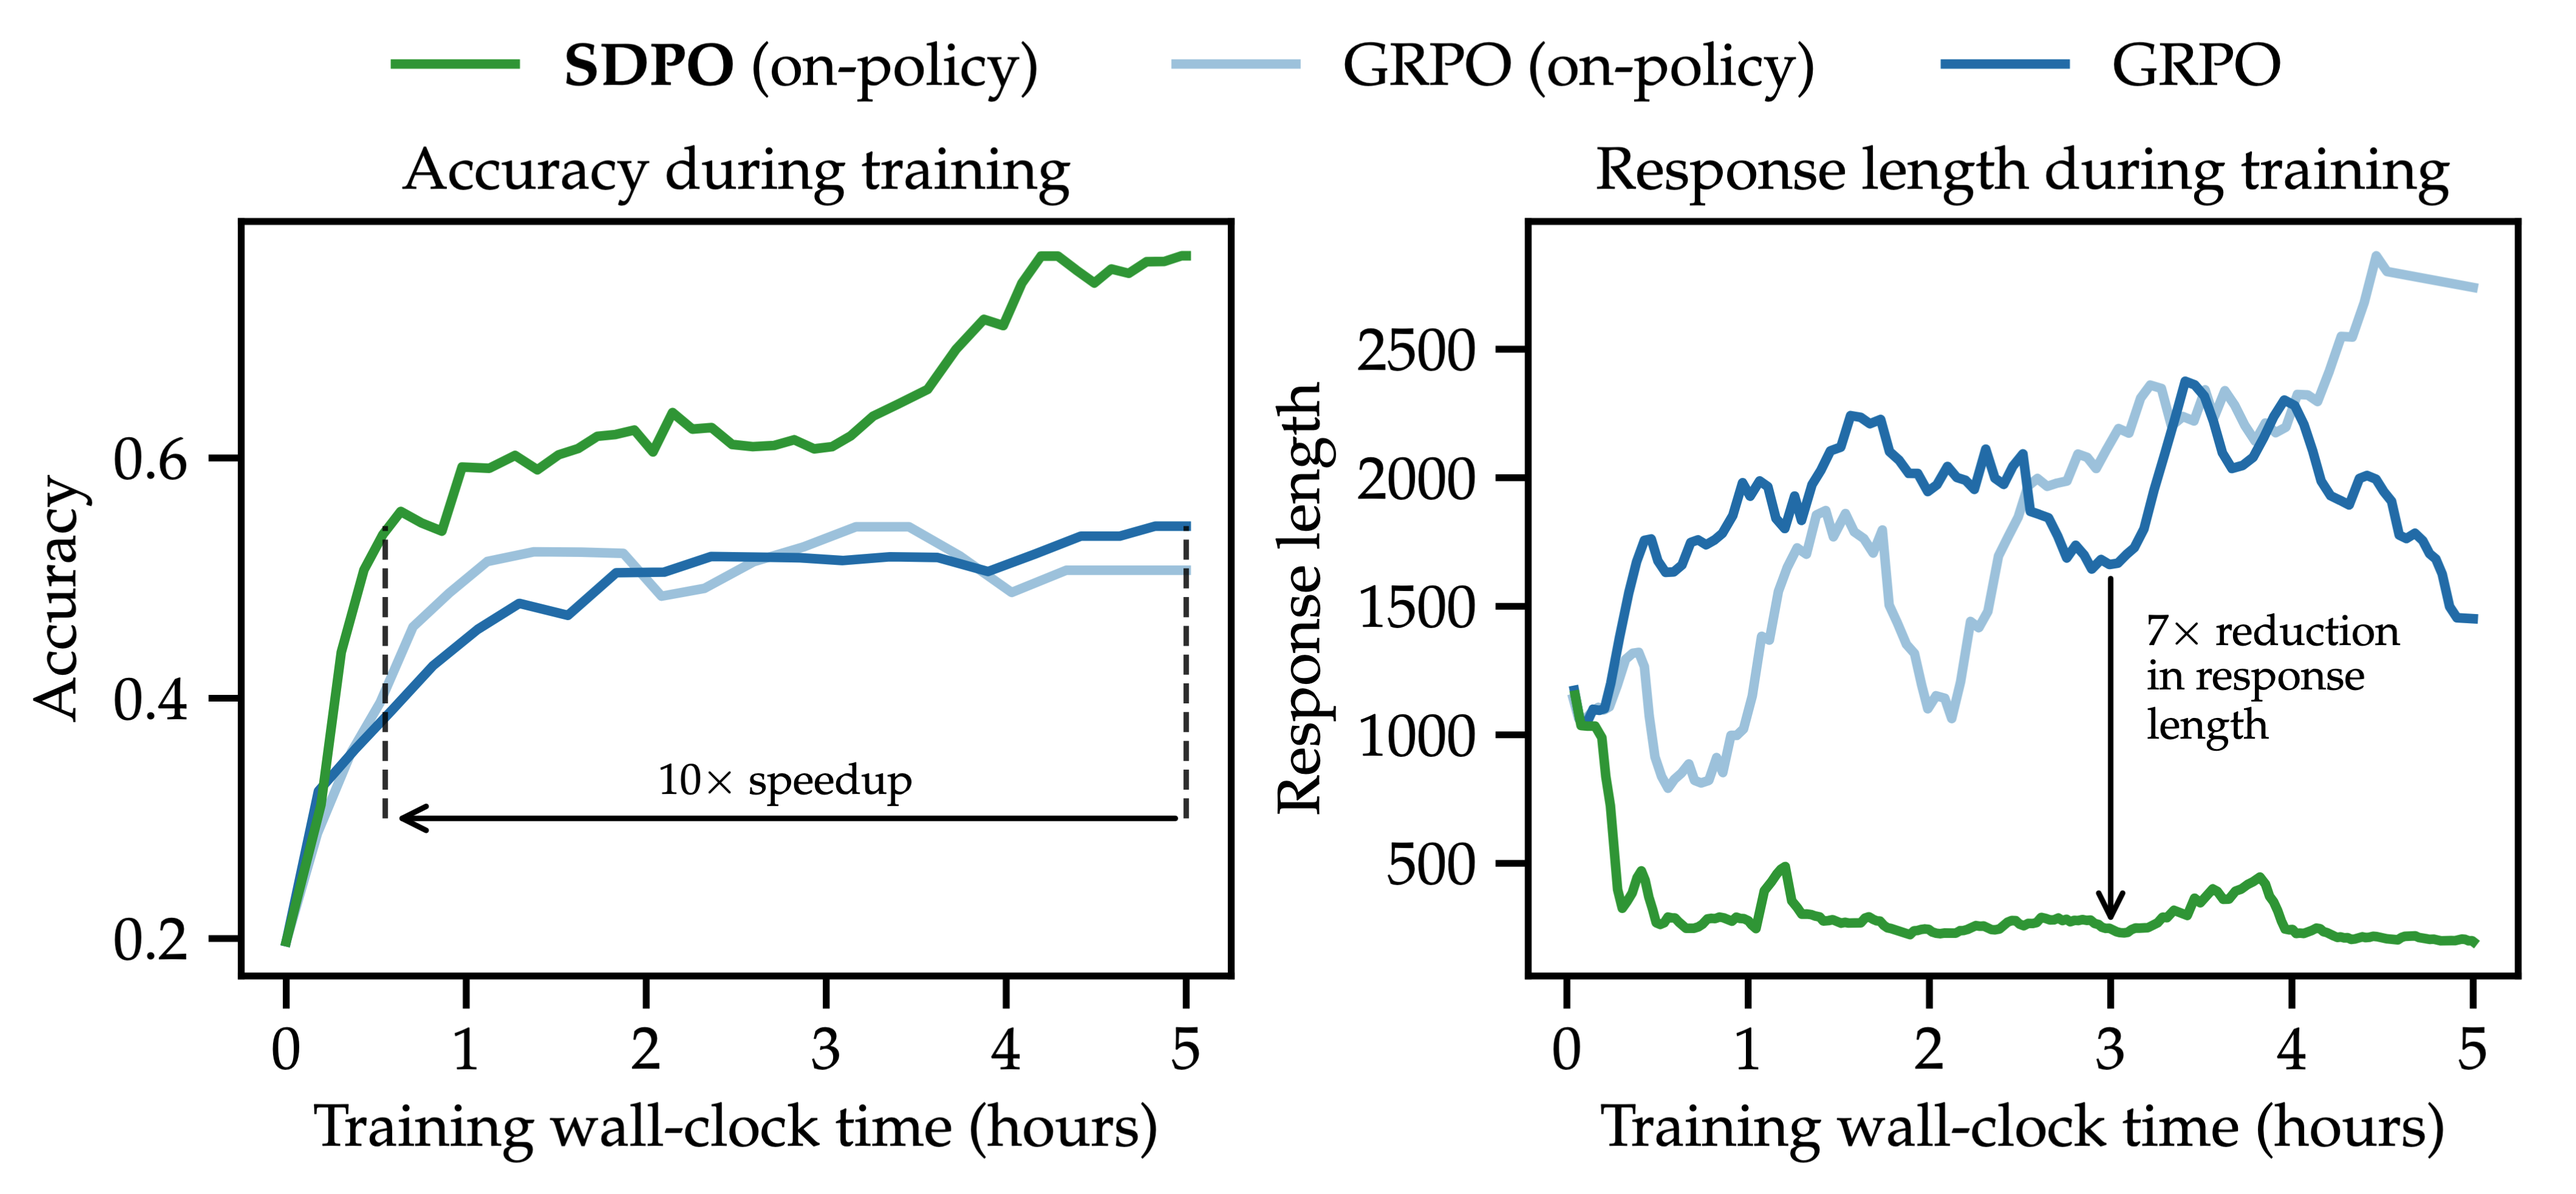
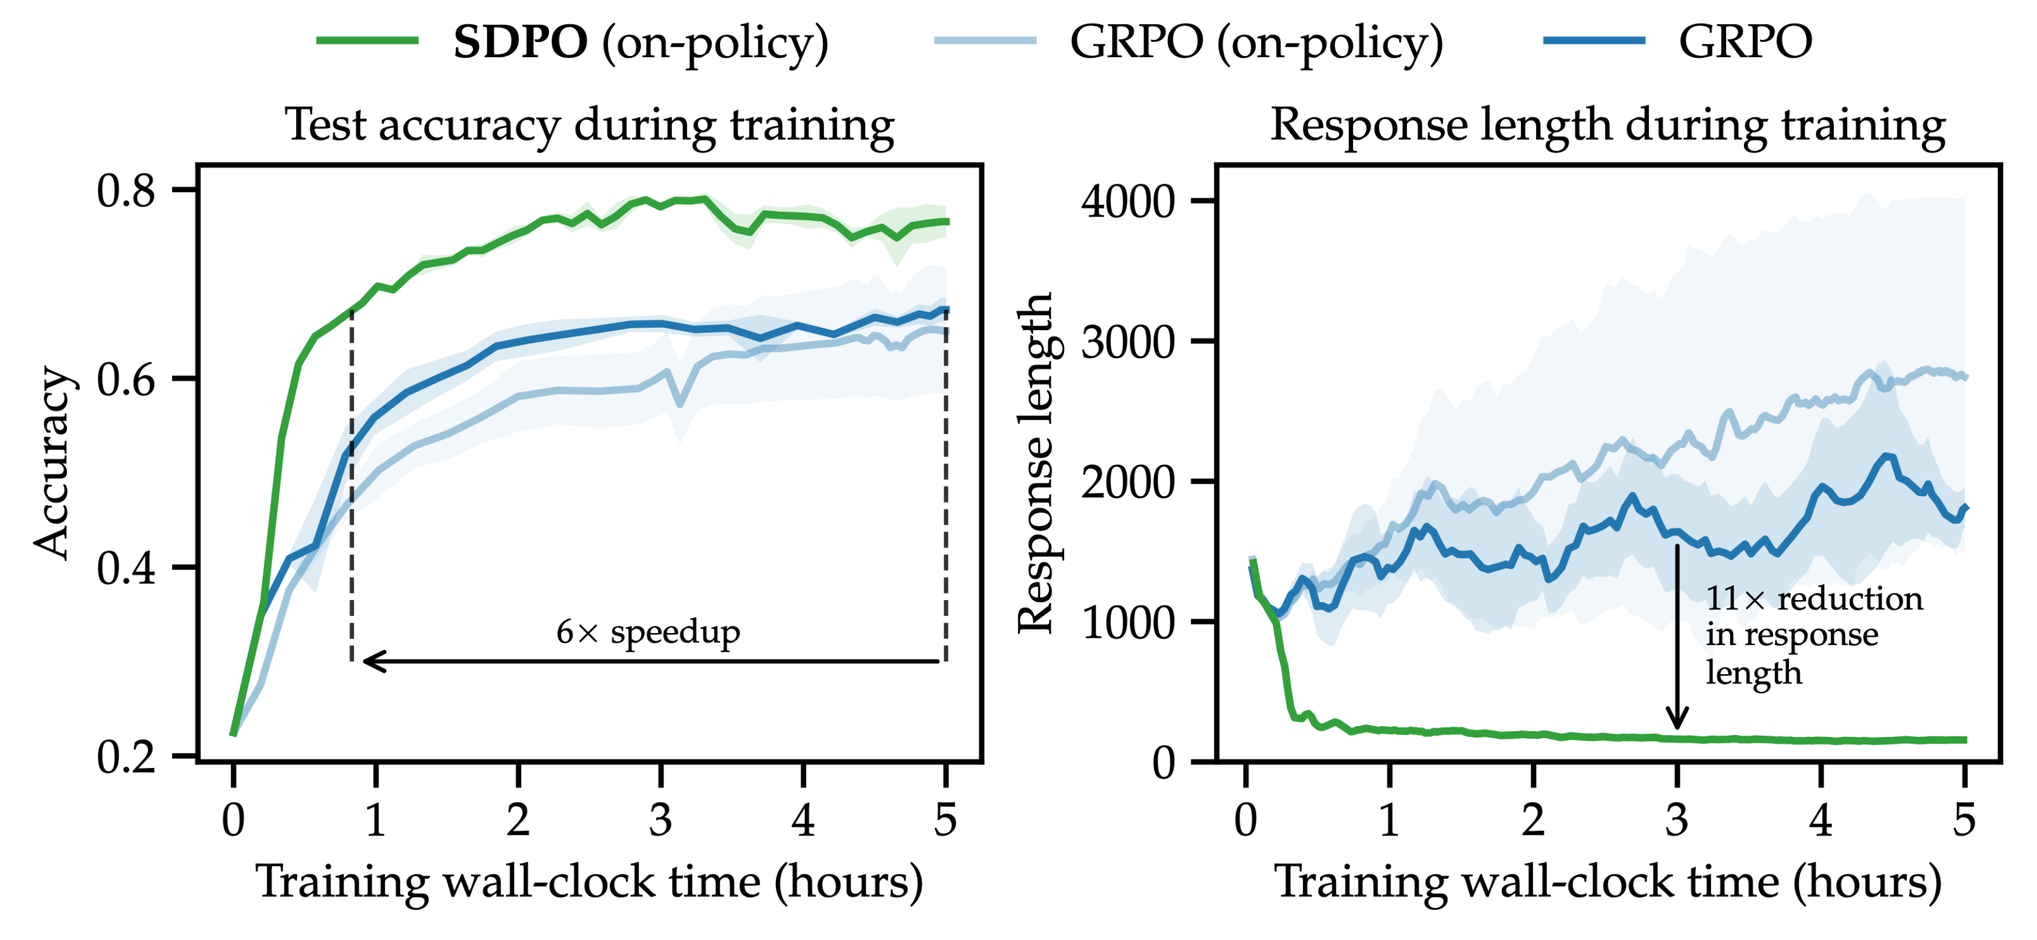
updates

diff --git a/SDPO.html b/SDPO.html
@@ -23,7 +23,7 @@
     }
     </style></head><body class="paper sdpo"><article class="page sans"><header><h1 class="page-title">Reinforcement Learning via Self-Distillation</h1><p class="page-description"></p></header><div class="page-body"><p><a href="https://jonhue.github.io/">Jonas Hübotter</a><sup>1</sup>,  <a href="https://frederike-luebeck.de/">Frederike Lübeck</a><sup>*,1,2</sup>,  <a href="https://www.linkedin.com/in/lbehric">Lejs Behric</a><sup>*,1</sup>,  <a href="https://antonbaumann.com/">Anton Baumann</a><sup>*,1</sup>,  <a href="https://marbaga.github.io/">Marco Bagatella</a><sup>1,2</sup>,  <a href="https://daniellsm.github.io/">Daniel Marta</a><sup>1</sup>,  <a href="https://idoh.github.io/">Ido Hakimi</a><sup>1</sup>,  <a href="https://idanshen.github.io/">Idan Shenfeld</a><sup>3</sup>,  <a href="https://thomasklbg.github.io/">Thomas Kleine Buening</a><sup>1</sup>,  <a href="https://guestrin.su.domains/">Carlos Guestrin</a><sup>4</sup>,  <a href="https://las.inf.ethz.ch/krausea">Andreas Krause</a><sup>1</sup></p><p><sup>1</sup>ETH Zurich <sup>2</sup>Max Planck Institute for Intelligent Systems <sup>3</sup>MIT <sup>4</sup>Stanford</p><p><a href="https://arxiv.org/abs/2601.20802"><strong>Paper</strong></a>,  <a href="https://github.com/lasgroup/SDPO"><strong>Code</strong></a>,  <a href="https://wandb.ai/jonhue/SDPO?nw=mgotcx6kk7"><strong>W&B Logs</strong></a></p><p>
     </p><figure class="image" style="text-align:center;margin-bottom:3.5em;"><a href="figures/SDPO/hero_small.png"><img style="width:100%;max-width:800px;" src="figures/SDPO/hero_small.png"/></a></figure><h3><strong>Abstract </strong></h3><p>Large language models are increasingly post-trained with reinforcement learning in verifiable domains such as code and math. Yet, current methods for reinforcement learning with verifiable rewards (RLVR) learn only from a scalar outcome reward per attempt, creating a severe credit-assignment bottleneck. Many verifiable environments actually provide rich textual feedback, such as runtime errors or judge evaluations, that explain why an attempt failed. We formalize this setting as reinforcement learning with rich feedback and <mark class="highlight-blue"><strong>introduce Self-Distillation Policy Optimization (SDPO), which converts tokenized feedback into a dense learning signal without any external teacher or explicit reward model.</strong></mark> SDPO treats the current model conditioned on feedback as a self-teacher and distills its feedback-informed next-token predictions back into the policy. In this way, SDPO leverages the model's ability to retrospectively identify its own mistakes in-context. Across scientific reasoning, tool use, and competitive programming on LiveCodeBench v6, SDPO improves sample efficiency and final accuracy over strong RLVR baselines. Notably, SDPO also outperforms baselines in standard RLVR environments that only return scalar feedback by using successful rollouts as implicit feedback for failed attempts. Finally, applying SDPO to individual questions at test time accelerates discovery on difficult binary-reward tasks, achieving the same discovery probability as best-of-k sampling or multi-turn conversations with 3x fewer attempts.</mark></em></p><figure class="image"><center><a href="figures/SDPO/sdpo.png"><img style="width:100%;max-width:800px;" src="figures/SDPO/sdpo.png"/></a><figcaption style="width:100%;max-width:800px;font-size:0.9rem;color:#444;margin-top:0em;"><strong>SDPO</strong>: sample a rollout, obtain tokenized feedback, re-evaluate the rollout under a feedback-conditioned self-teacher, and distill the teacher's corrected next-token distribution into the policy.</figcaption></center></figure><p>
-    </p><h3><strong>Learning to Reason Better, Faster</strong></h3><figure class="image" style="text-align:left;"><a href="figures/SDPO/10xrun.png"><img style="width:100%;max-width:700px;display:block;margin-left:0;margin-right:auto;" src="figures/SDPO/10xrun.png"/></a></figure><p>Even when the environment provides only a scalar outcome reward, SDPO outperforms GRPO substantially. SDPO uses successful rollouts as implicit feedback, allowing the policy to directly learn from its own best generations, without requiring external demonstrations or additional datasets. On undergrad-level Chemistry questions (shown above with Olmo3-7B-Instruct), <mark class="highlight-blue"><strong>SDPO reaches GRPO's accuracy 10× faster (wall-clock time) and reaches a much higher final accuracy.</strong></mark> This shows that self-distillation can remove the credit-assignment bottleneck of today's RLVR methods. Reasoning traces after SDPO are up to 7× shorter than those of GRPO which often enters logical loops, highlighting that effective reasoning need not be verbose.</p><p>
+    </p><h3><strong>Learning to Reason Better, Faster</strong></h3><figure class="image" style="text-align:left;"><a href="figures/SDPO/10xrun.png"><img style="width:100%;max-width:700px;display:block;margin-left:0;margin-right:auto;" src="figures/SDPO/10xrun.png"/></a></figure><p>Even when the environment provides only a scalar outcome reward, SDPO outperforms GRPO substantially. SDPO uses successful rollouts as implicit feedback, allowing the policy to directly learn from its own best generations, without requiring external demonstrations or additional datasets. On undergrad-level Chemistry questions (shown above with Olmo3-7B-Instruct), <mark class="highlight-blue"><strong>SDPO reaches GRPO's accuracy 6× faster (wall-clock time) and reaches a much higher final accuracy.</strong></mark> This shows that self-distillation can remove the credit-assignment bottleneck of today's RLVR methods. Reasoning traces after SDPO are up to 11× shorter than those of GRPO which often enters logical loops, highlighting that effective reasoning need not be verbose.</p><p>
     </p><h3><strong>Test-Time Self-Distillation Accelerates Discovery</strong></h3><figure class="image" style="text-align:left;"><a href="figures/SDPO/ttt_results.png"><img style="width:100%;max-width:700px;display:block;margin-left:0;margin-right:auto;" src="figures/SDPO/ttt_results.png"/></a></figure><p>SDPO can also be applied at test time to a single hard question by repeatedly distilling the model with environment feedback into the current policy. With binary rewards, RLVR provides no learning signal before the first success, so it cannot accelerate discovery in the same way. <mark class="highlight-blue"><strong>SDPO accelerates the discovery of solutions to very hard problems of LiveCodeBench (pass@64 < 0.03).</strong></mark> It achieves the same discovery probability (discovery@k = P(solution found within k attempts)) as best-of-k sampling and multi-turn prompting with up to ~3× fewer attempts, and discovers solutions the baselines fail to find at all. Rich environment feedback (such as runtime errors) turns repeated failures into a dense learning signal, enabling SDPO to progress even before the first solution is found.</p><p>
     </p><hr style="margin-bottom: 4em;"/><h3><strong>SDPO Benefits from Model Scale</strong></h3><div class="column-list sdpo-model-scale"><div style="width:43.75%" class="column"><p><mark class="highlight-blue"><strong>SDPO's gains grow with model size.</strong></mark> Across Qwen3 models (0.6B→8B), SDPO consistently outperforms GRPO, with the gap widening as models become stronger. This suggests that accurate retrospection of the self-teacher emerges with scale as models become better in-context learners, making self-distillation increasingly effective for larger LLMs.</p><p>
     </p></div><div style="width:56.25%" class="column"><figure class="image sdpo-model-scale-figure" style="text-align:left;margin-top:-2em;"><a href="figures/SDPO/model_scaling.png"><img style="width:2370px;display:block;margin-left:0;margin-right:auto;" src="figures/SDPO/model_scaling.png"/></a></figure>
